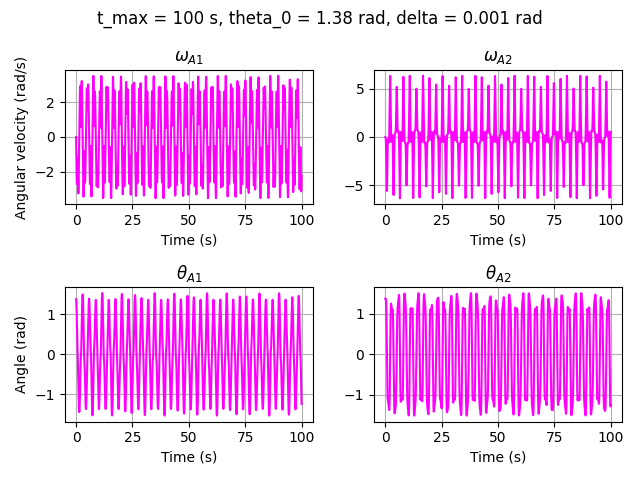
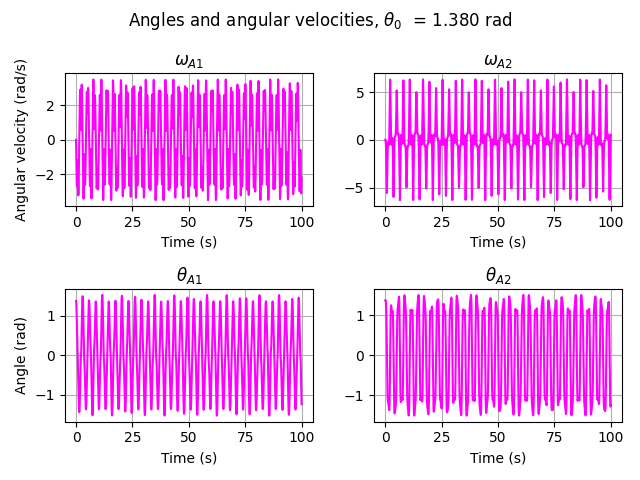
update jan8 1

diff --git a/Python codes/Pendulum dynamics/four_pendula.py b/Python codes/Pendulum dynamics/four_pendula.py
@@ -26,7 +26,7 @@ m2 = 1
 g = 9.81
 
 # Time parameters and discretization
-t_max = 20
+t_max = 100
 dt = 0.02 # Not smaller than that for the gif
 N = int(np.floor(t_max/dt))+1
 t = np.linspace(0, t_max, N)
@@ -34,18 +34,19 @@ t = np.linspace(0, t_max, N)
 ### Initial conditions
 # Initial angles templates
 critical = 1.38 # just below critical angle by about 0.002
-high = np.pi + 0.1 # high energy
+big_critical = 1.3 #1.4 + 0.1 was the former value
+high = 2.8 # high energy
 low = 0.1 # low energy
-# Angle offset
+# Angle offset aka delta
 big = 0.1
 medium = 0.01
 small = 0.001
 # Choosing between templates
-angle = critical #change at will
-delta = small #change at will
+angle = low #change at will
+delta = big #change at will
 thetas = [angle + i*delta for i in range(4)]
 
-#1.4 + 0.1 3 times was the previous value
+
 
 # Pendulum A
 w1_0 = 0
@@ -152,7 +153,7 @@ ax[1, 1].set_xlabel("Time (s)")
 ax[1, 1].set_title(r"$\theta_{A2}$")
 ax[1, 1].grid()
 
-fig.suptitle(f"t_max = {t_max} s, theta_0 = {angle} rad, delta = {delta} rad")
+fig.suptitle(r"Angles and angular velocities, $\theta_0$  = %.3f rad" % angle)
 fig.tight_layout()
 fig.savefig("angles1_velocities1.png")
 
@@ -180,7 +181,7 @@ axx[1, 1].set_xlabel("Time (s)")
 axx[1, 1].set_title(r"$\theta_{D2}$")
 axx[1, 1].grid()
 
-figg.suptitle(f"t_max = {t_max} s, theta_0 = {angle} rad, delta = {delta} rad")
+figg.suptitle(r"Angles and angular velocities, $\theta_0$  = %.3f rad" % (angle+3*delta))
 figg.tight_layout()
 figg.savefig("angles2_velocities2.png")
 
@@ -204,10 +205,10 @@ T4, V4, E4 = energy(m1, m2, l1, l2, g, w1111, w2222, th1111, th2222)
 
 # Plotting the difference between the initial total energy and the computed total energy along time
 plt.figure()
-plt.plot(t, E4[0]-E4, label = "Pendulum D", color = "gray")
-plt.plot(t, E3[0]-E3, label = "Pendulum C", color = "gold")
-plt.plot(t, E2[0]-E2, label = "Pendulum B", color = "cyan")
 plt.plot(t, E1[0]-E1, label = "Pendulum A", color = "magenta")
+plt.plot(t, E2[0]-E2, label = "Pendulum B", color = "cyan")
+plt.plot(t, E3[0]-E3, label = "Pendulum C", color = "gold")
+plt.plot(t, E4[0]-E4, label = "Pendulum D", color = "gray")
 
 plt.suptitle("Total energy losses due to RK4 inacurracy")
 plt.xlabel("Time [s]")

diff --git a/Python codes/Lyapunov exponents/global_lyapunov_cmap.py b/Python codes/Lyapunov exponents/global_lyapunov_cmap.py
@@ -112,8 +112,8 @@ with tqdm(total=theta_N*theta_N*n_step) as pbar: # Progression bar
 fig, ax = plt.subplots(figsize=(8, 6))
 cax = ax.imshow(lya_pq_th, cmap='jet', extent=[0, np.pi, 0, np.pi], origin='lower')
 
-ax.set_xlabel(r'$\theta_1$')
-ax.set_ylabel(r'$\theta_2$')
+ax.set_xlabel(r'$\theta_2$')
+ax.set_ylabel(r'$\theta_1$')
 # Add colorbar
 cbar = fig.colorbar(cax, ax=ax)
 cbar.set_label('Lyapunov exponent')

diff --git a/Python codes/Lyapunov exponents/local_lyapunov_cmap.py b/Python codes/Lyapunov exponents/local_lyapunov_cmap.py
@@ -106,8 +106,8 @@ with tqdm(total=theta_N*theta_N*N) as pbar: # Progression bar
 fig, ax = plt.subplots(figsize=(8, 6))
 cax = ax.imshow(local_lyap_pq, cmap='jet', extent=[0, np.pi, 0, np.pi], origin='lower')
 
-ax.set_xlabel(r'$\theta_1$')
-ax.set_ylabel(r'$\theta_2$')
+ax.set_xlabel(r'$\theta_2$')
+ax.set_ylabel(r'$\theta_1$')
 
 cbar = fig.colorbar(cax, ax=ax)
 cbar.set_label('Lyapunov exponent')

diff --git a/Python codes/Other utilities/energy_cmap.py b/Python codes/Other utilities/energy_cmap.py
@@ -41,8 +41,8 @@ with tqdm(total=theta_N*theta_N) as pbar: # Progression bar
 fig, ax = plt.subplots(figsize=(8, 6))
 cax = ax.imshow(energy_pq_th, cmap='jet', extent=[0, np.pi, 0, np.pi], origin='lower')
 
-ax.set_xlabel(r'$\theta_1$')
-ax.set_ylabel(r'$\theta_2$')
+ax.set_xlabel(r'$\theta_2$')
+ax.set_ylabel(r'$\theta_1$')
 
 cbar = fig.colorbar(cax, ax=ax)
 cbar.set_label('Energy')

diff --git a/README.md b/README.md
@@ -15,23 +15,28 @@ The present repository contains 3 main folders:
 
 ### __ipynb notebooks__ (jupyter)
 
-1. `Pendulum_dynamics.ipynb`: notebook equivalent for the codes in the `Pendulum dynamics` folder
-2. `Lyapunov_exponents.ipynb`: notebook equivalent for the codes in the `Lyapunov exponents` folder
+These notebooks were made mainly for accessibility and readability purposes. They contain roughly the same codes as the python files, but are more user-friendly.
+
+1. `Pendulum_dynamics.ipynb`: simulation of a single double-pendulum system and graphical visualizations
+2. `Lyapunov_exponents.ipynb`: computation of the Lyapunov exponents and graphs.
 
 ### __Plots and animations__
 
 This folder contains various graphical visualisations produced by the codes.
 
 1. `Pendulum dynamics - vizualisation`: plots mainly produced with four_pendula.py
-   1. `Critical angle - 20sec`: starting near critical angle for a time of 20sec
-   2. `Critical angle - 100sec`: starting near critical angle for a time of 100sec
-   3. `High energies`: starting with high intial energies
-   4. `Low energies`: starting with low initial energies
+   1. `Big critical - 100sec`: starting roughly near critical angle for a time of 100sec
+   2. `Critical angle - 20sec`: starting very close to critical angle for a time of 20sec
+   3. `Critical angle - 100sec`: starting very close critical angle for a time of 100sec
+   4. `High energies`: starting with high intial energies
+   5. `Low energies`: starting with low initial energies
 2. `Colormaps`: colormaps for initial energy, global and local Lyapunov exponents
 3. `Global Lyapunov`: plots produced with global_lyapunov.py
 4. `Local Lyapunov spin-ups`: plots produced with local_lyapunov_spinup.py
 
 ### __Python codes__
+
+These files contain the main codes used to produce the results (mainly represented in graphs) of the project.
 
 1. *Pendulum dynamics*: numerical simulation of the double pendulum
    1. `one_pendulum.py`: simulation of a single pendulum
@@ -43,7 +48,7 @@ This folder contains various graphical visualisations produced by the codes.
    3. `local_lyapunov_spinup.py`: producing the spin-up phase for the local Lyapunov exponents
    4. `local_lyapunov_cmap.py`: producing the colormap of the local Lyapunov exponents
 3. *Other utilities*:
-   1. `functions.py`: contains the functions used in the other files
+   1. `functions.py`: contains the main functions used in the other files (but not actually used as a module)
    2. `energy_cmap.py`: produces the colormap of the initial energy of the system
    3. `explicit_derivative.py`: computes the derivative of the pendulum equations
    4. `Initilaize_planets.py`: prompts the parameters of the pendulum
